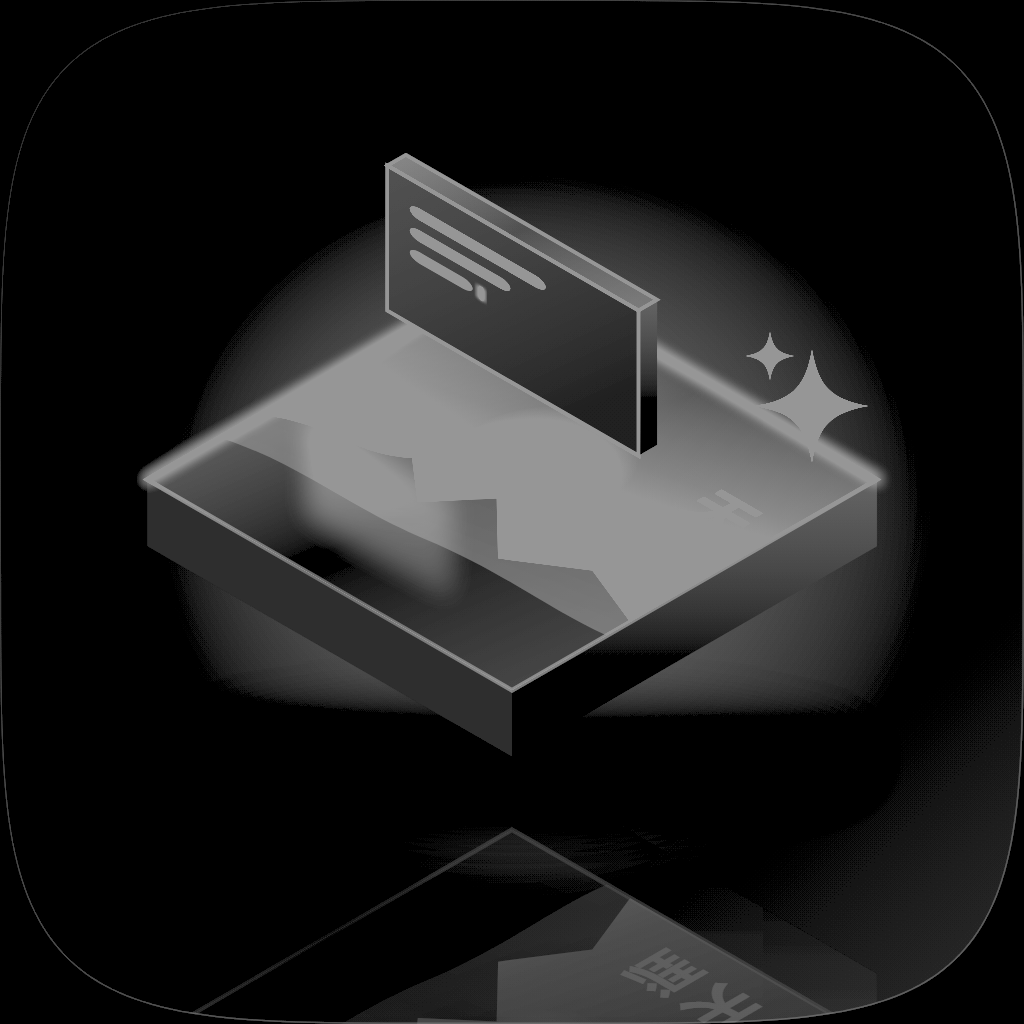
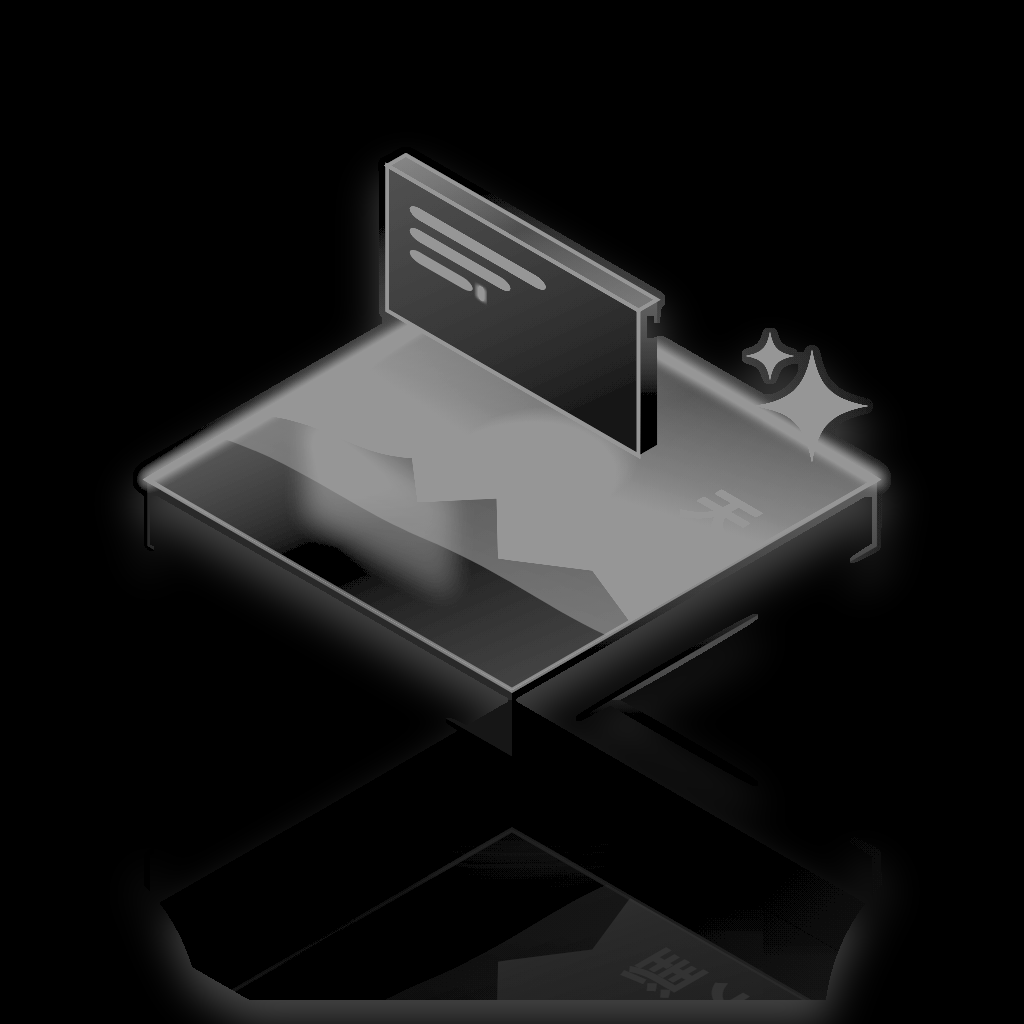
v0.8.14：透明图标去光晕、加投影，立体感
- 用户反馈：透明模式下还有半圆发光光圈；要像别的图标一样，
  给中间图形和倒影加点阴影、看起来立体点。
- 修法：重做 tinted 图——边缘检测抠出场景轮廓（山体+卡片+
  星星+太阳+文字），背景径向光晕整片去掉（纯黑底）；倒影为
  山体沿 y=700 翻转、亮度 x0.55；全图亮度仍封顶 150（无白光边）；
  整个前景轮廓高斯模糊后下移 24px、亮度 70 做投影，衬在场景背后。
- 生成脚本存为 frontend/scripts/make-tinted-icon.py。

diff --git a/frontend/scripts/make-tinted-icon.py b/frontend/scripts/make-tinted-icon.py
@@ -1,0 +1,63 @@
+# 从深色图标生成 iOS 透明（tinted）图标。
+# 用法：python3 make-tinted-icon.py <深色图标png> <输出tinted png>
+# 做法：
+#  1. 边缘检测找场景轮廓（山体平台+卡片+星星+太阳+文字），去掉背景的
+#     径向光晕（那是 v0.8.13 用户说的“半圆发光光圈”）和图标外框；
+#  2. 倒影 = 山体平台沿 y=700 垂直翻转，亮度 x0.55；
+#  3. 亮度提亮后封顶 150（去 v0.8.13 的边缘白光）；
+#  4. 整个前景轮廓高斯模糊后下移 24px、亮度 70 做投影，衬在场景背后，
+#     让图形和倒影看起来浮在玻璃上、有立体感（像别的 App 的透明图标）。
+import sys
+import numpy as np
+from PIL import Image
+from scipy.ndimage import gaussian_filter, sobel, binary_dilation, binary_fill_holes, binary_closing, label, shift
+
+src, dst = sys.argv[1], sys.argv[2]
+arr = np.array(Image.open(src).convert('L'), dtype=np.float32)
+
+sm = gaussian_filter(arr, 2)
+grad = np.hypot(sobel(sm, axis=1), sobel(sm, axis=0))
+edge = grad > 12
+edge[:30, :] = False; edge[-30:, :] = False
+edge[:, :30] = False; edge[:, -30:] = False
+edge = binary_dilation(edge, structure=np.ones((5, 5)))
+filled = binary_fill_holes(edge)
+lab, n = label(filled)
+sizes = np.bincount(lab.ravel())
+keep = np.zeros_like(filled)
+for i in range(1, n + 1):
+    if sizes[i] > 800:
+        keep[lab == i] = True
+keep = binary_closing(keep, structure=np.ones((7, 7)))
+keep = binary_fill_holes(keep)
+lab2, n2 = label(keep)
+for i in range(1, n2 + 1):
+    comp = (lab2 == i)
+    if comp[0, :].any() or comp[-1, :].any() or comp[:, 0].any() or comp[:, -1].any():
+        keep[comp] = False
+keep = binary_fill_holes(keep)
+
+H, W = keep.shape
+yy, xx = np.mgrid[0:H, 0:W]
+d_tl = np.sqrt(xx ** 2 + yy ** 2); d_tr = np.sqrt((xx - W) ** 2 + yy ** 2)
+d_bl = np.sqrt(xx ** 2 + (yy - H) ** 2); d_br = np.sqrt((xx - W) ** 2 + (yy - H) ** 2)
+corner = ((xx < 200) & (yy < 200) & (d_tl < 200)) | ((xx > W - 200) & (yy < 200) & (d_tr < 200)) | \
+         ((xx < 200) & (yy > H - 200) & (d_bl < 200)) | ((xx > W - 200) & (yy > H - 200) & (d_br < 200))
+keep = keep & (~corner)
+
+slab = keep.copy(); slab[:400, :] = False; slab[700:, :] = False
+refl = shift(np.flip(slab, axis=0).astype(float), shift=(376, 0), order=0, mode='constant') > 0.5
+full = keep | refl
+
+lum = np.clip(arr, 28, None)
+base = np.minimum(255 * ((lum - 28) / 227) ** 0.45, 150)
+main_mask = full.copy(); main_mask[700:, :] = False
+refl_mask = full.copy(); refl_mask[:700, :] = False
+tinted = np.zeros_like(base)
+tinted[main_mask] = base[main_mask]
+tinted[refl_mask] = base[refl_mask] * 0.55
+shadow = gaussian_filter(full.astype(np.float32), sigma=20)
+shadow = shift(shadow, shift=(24, 0), order=1, mode='constant') * 70
+out = np.maximum(tinted, shadow * (~full))
+Image.fromarray(np.clip(out, 0, 255).astype(np.uint8), mode='L').convert('RGB').save(dst)
+print(f'tinted icon written to {dst}')
